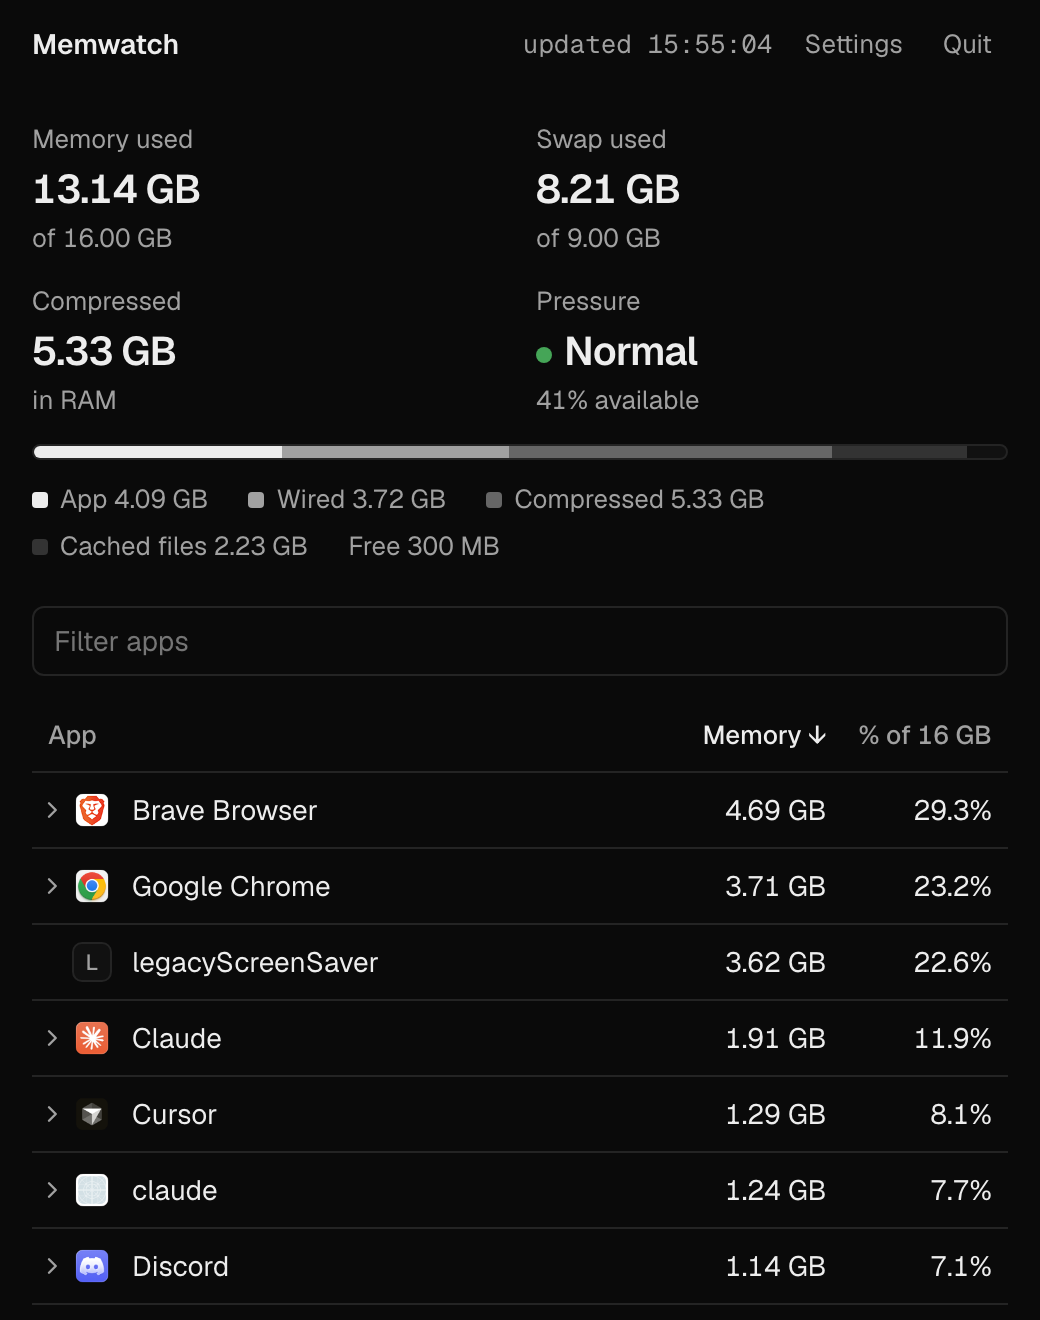
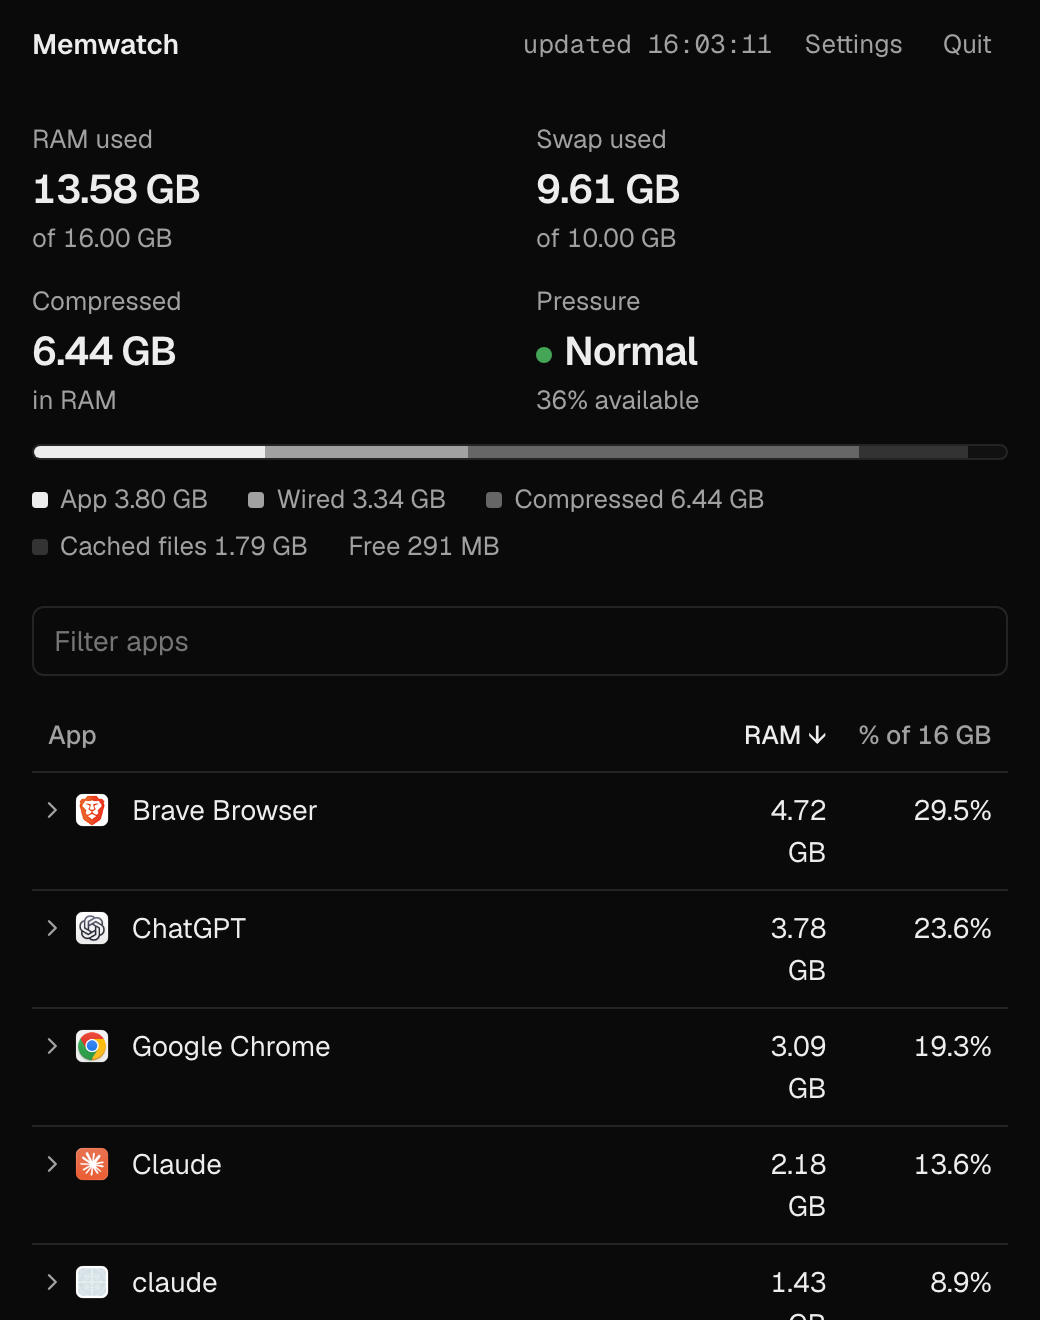
Say RAM instead of Memory so it doesn't read like disk space

diff --git a/memwatch.py b/memwatch.py
@@ -251,12 +251,12 @@ tr.app:hover .chev{color:var(--fg)}
 <div class="legend" id="legend"></div>
 <div class="tools"><input id="q" type="search" placeholder="Filter apps" aria-label="Filter apps">
 <span class="meta" id="hint">click a row for processes</span></div>
-<div class="wrap"><table><caption>Memory by app. Memory = physical footprint (as in Activity Monitor). Compressed = part of it squeezed in RAM or swapped to disk.</caption>
+<div class="wrap"><table><caption>RAM by app. RAM = physical footprint (Activity Monitor calls it Memory). Compressed = part of it squeezed in RAM or swapped to disk. On disk = size of the app itself on your drive.</caption>
 <thead><tr><th data-k="app" title="App name. Helper processes are counted under their parent app.">App</th>
 <th class="n" data-k="n" title="Number of running processes for this app">Procs</th>
-<th class="n" data-k="mem" title="Physical footprint: RAM this app is using right now, including its compressed part. Same number as Activity Monitor's Memory column.">Memory</th>
-<th class="n" data-k="cmprs" title="Part of Memory that macOS has compressed in RAM or moved to swap on disk">Compressed</th>
-<th class="n" data-k="mem" id="share" title="Memory as a share of your installed RAM">Memory % of RAM</th>
+<th class="n" data-k="mem" title="Physical footprint: RAM this app is using right now, including its compressed part. Same number as Activity Monitor's Memory column.">RAM</th>
+<th class="n" data-k="cmprs" title="Part of the RAM number that macOS has compressed in RAM or moved to swap on disk">Compressed</th>
+<th class="n" data-k="mem" id="share" title="RAM use as a share of your installed RAM">RAM %</th>
 <th class="n" data-k="disk" title="Space the app itself takes on your drive (its .app bundle). Doesn't include its documents, caches or other data.">On disk</th></tr></thead>
 <tbody id="rows"></tbody></table></div>
 </main><script>
@@ -284,7 +284,7 @@ function render(){
   const s=data.sys, used=s.app+s.wired+s.compressed;
   const p=s.available_pct, [pc,pl]=p<15?['var(--err)','High']:p<35?['var(--warn)','Elevated']:['var(--ok)','Normal'];
   $('kpis').innerHTML=[
-    ['Memory used',fmt(used),'of '+fmt(s.total)],
+    ['RAM used',fmt(used),'of '+fmt(s.total)],
     ['Swap used',fmt(s.swap_used),'of '+fmt(s.swap_total)],
     ['Compressed',fmt(s.compressed),'in RAM'],
     ['Pressure',`<span class="dot" style="background:${pc}"></span>${pl}`,p+'% available'],
@@ -308,7 +308,7 @@ function render(){
   if(focused!=null) [...$('rows').querySelectorAll('tr.app')].find(r=>r.dataset.a===focused)?.focus({preventScroll:true});
   document.querySelectorAll('th').forEach(th=>th.dataset.k===sortK&&th.id!=='share'
     ? th.setAttribute('aria-sort',asc?'ascending':'descending') : th.removeAttribute('aria-sort'));
-  $('share').textContent=`${R.classList.contains('mb')?'':'Memory '}% of ${fmt(s.total).replace('.00','')}`;
+  $('share').textContent=`${R.classList.contains('mb')?'':'RAM '}% of ${fmt(s.total).replace('.00','')}`;
 }
 function toggle(r){
   const a=r.dataset.a; open.has(a)?open.delete(a):open.add(a);

diff --git a/README.md b/README.md
@@ -15,10 +15,10 @@ one for Slack, one for whatever Electron app you forgot was open, with the real 
 
 ## What it shows
 
-- **Memory used, swap, compressed memory and memory pressure** at the top. The
+- **RAM used, swap, compressed memory and memory pressure** at the top. The
   numbers match Activity Monitor.
 - **A breakdown bar**: app memory, wired, compressed, cached files, free.
-- **Every app, sorted by memory**, with its real icon. Click a row to see the
+- **Every app, sorted by RAM**, with its real icon. Click a row to see the
   processes inside it.
 - **Compressed** per app: the part macOS has squeezed in RAM or pushed out to swap.
   macOS doesn't report swap per app, so this is the closest you can get.
@@ -31,7 +31,7 @@ Hover any column header for a short explanation of what it measures.
 ## Menu bar mode
 
 Turn it on in Settings (<kbd>⌘</kbd> <kbd>,</kbd>) and Memwatch moves out of the Dock and into
-the menu bar. It shows your memory used next to the icon, and clicking it opens a
+the menu bar. It shows your RAM used next to the icon, and clicking it opens a
 compact version of the window.
 
 <img src="screenshots/menubar.png" width="420" alt="Menu bar popover">
@@ -82,7 +82,7 @@ Both light and dark mode follow your system setting.
 
 ## Good to know
 
-- "Memory" is the physical footprint, the same number Activity Monitor shows. It
+- "RAM" is the physical footprint, the number Activity Monitor calls "Memory". It
   includes the compressed part, which is why the percentages can add up to more than 100%.
 - "On disk" is just the `.app` bundle. An app's documents, caches and other data live
   elsewhere in `~/Library` and aren't counted.
